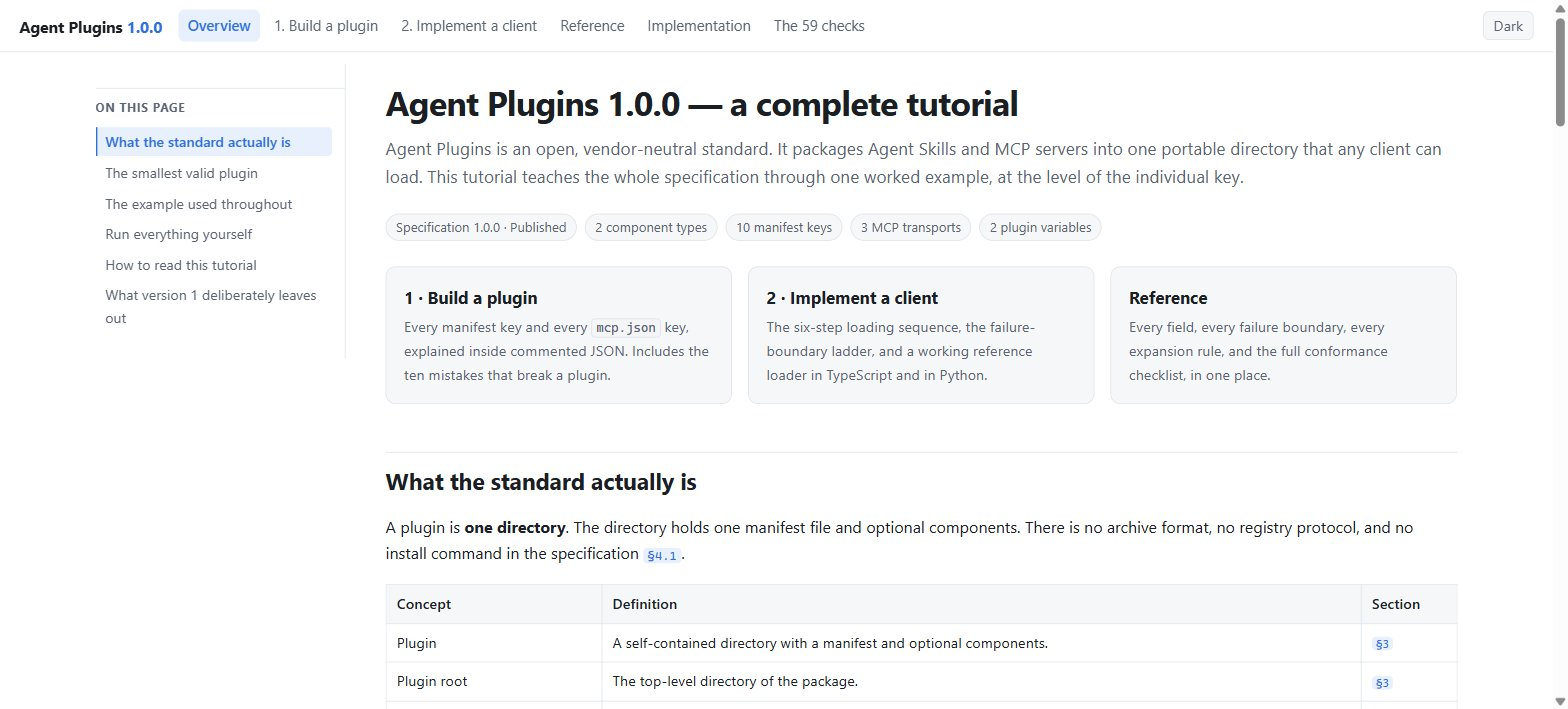
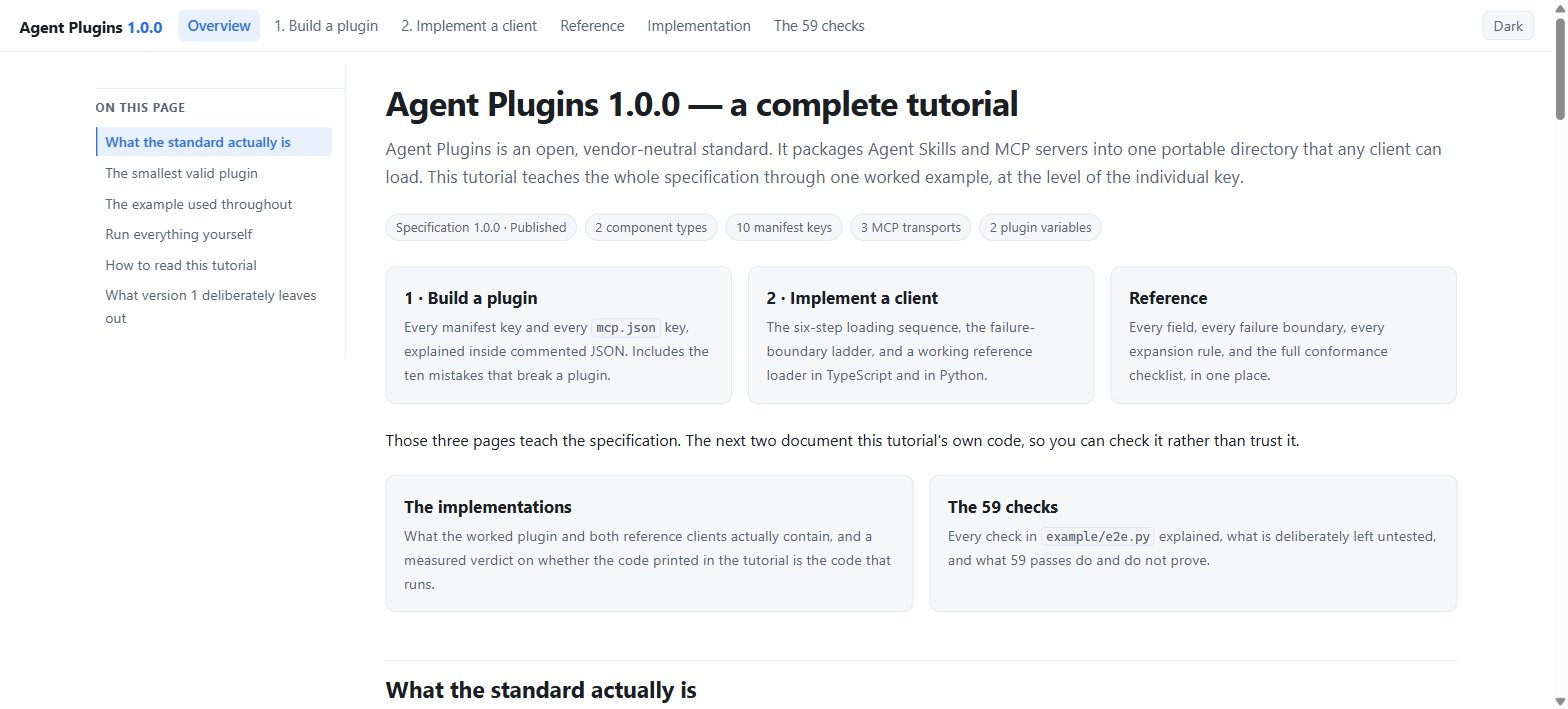
Link the two new pages from the index.html body
The nav already listed implementation.html and e2e-tests.html, but the
landing page's card grid and its "How to read this tutorial" table still
named only the three tutorial pages, so a reader scrolling the page never
met them.

Add a second .cards group rather than a fourth and fifth card: the grid is
repeat(auto-fit, minmax(250px, 1fr)), so five cards in one group wrap 4 + 1.
The split also states the distinction — three pages teach the spec, two
document this repository's own code.

Re-shoot index.jpg, which showed the old three-card grid.

Claude-Session: https://claude.ai/code/session_01WjJBM6mLEygkr3QV7NpvkF

diff --git a/index.html b/index.html
@@ -58,6 +58,22 @@ through one worked example, at the level of the individual key.</p>
   </a>
 </div>
 
+<p>Those three pages teach the specification. The next two document this tutorial's own code, so you
+can check it rather than trust it.</p>
+
+<div class="cards">
+  <a class="card" href="implementation.html">
+    <h3>The implementations</h3>
+    <p>What the worked plugin and both reference clients actually contain, and a measured verdict on
+    whether the code printed in the tutorial is the code that runs.</p>
+  </a>
+  <a class="card" href="e2e-tests.html">
+    <h3>The 59 checks</h3>
+    <p>Every check in <code>example/e2e.py</code> explained, what is deliberately left untested, and
+    what 59 passes do and do not prove.</p>
+  </a>
+</div>
+
 <h2 id="what">What the standard actually is</h2>
 
 <p>A plugin is <strong>one directory</strong>. The directory holds one manifest file and optional components.
@@ -200,6 +216,8 @@ rule of the specification in action <span class="sec">§7.2.2</span>.</p>
 <tr><td>Packaging skills or an MCP server for other people</td><td><a href="plugin-authors.html">Tutorial 1</a></td><td>Copy <code>example/changelog-tools/</code> and edit it.</td></tr>
 <tr><td>Building an agent, an IDE, or a CLI that loads plugins</td><td><a href="client-implementers.html">Tutorial 2</a></td><td>Port <code>example/client/loader.ts</code>.</td></tr>
 <tr><td>Checking one rule quickly</td><td><a href="reference.html">Reference</a></td><td>Use the field tables and the failure matrix.</td></tr>
+<tr><td>Wondering whether the example code is real</td><td><a href="implementation.html">The implementations</a></td><td>Read the fidelity verdict, then open the files in <code>example/</code>.</td></tr>
+<tr><td>Wondering what the tests actually prove</td><td><a href="e2e-tests.html">The 59 checks</a></td><td>Run <code>python example/e2e.py</code> yourself.</td></tr>
 </tbody>
 </table>
 </div>

diff --git a/HANDOFF.md b/HANDOFF.md
@@ -15,6 +15,11 @@ run 31134457291.
 
 Done and verified:
 
+- **`index.html` links every other page twice**: from the nav, and from the body — three cards for
+  the tutorial pages, then a second `.cards` group for `implementation.html` and `e2e-tests.html`,
+  plus a row each in the "How to read this tutorial" table. Keep the two card groups separate.
+  The grid is `repeat(auto-fit, minmax(250px, 1fr))` (`assets/style.css:374`), so a single group of
+  5 cards wraps 4 + 1 and looks broken.
 - **6 HTML pages.** 4 tutorial pages, self-contained, no CDN: `index.html`, `plugin-authors.html`,
   `client-implementers.html`, `reference.html` — plus `implementation.html` (what the code
   contains, and a measured verdict on tutorial-versus-code fidelity: 149 of 165 TypeScript lines are
@@ -51,12 +56,16 @@ Done and verified:
   and `assets/tutorial.js`. All 14 returned 200 as of the last verified deploy. The 2 newest JPEGs,
   `implementation.jpg` and `e2e-tests.jpg`, only serve once their commit is pushed and deployed —
   re-run the loop below after any push. Every destination behind the README screenshot grid is one
-  of the 6 page URLs. The served `index.html` is 11987 bytes, which equals
-  `git cat-file -s HEAD:index.html`, and it links `implementation.html` and `e2e-tests.html`.
-  That byte match is how you confirm the newest content is live and not a cached older deploy.
-  A Windows working copy shows 12234 bytes for the same file, because the checkout uses CRLF
-  and the 247 extra bytes are the 247 carriage returns. Compare the git blob size, not the file
-  on disk.
+  of the 6 page URLs. To confirm the newest content is live and not a cached older deploy, compare
+  the served byte count with the git blob, which must be equal:
+
+  ```bash
+  echo "served=$(curl -sL https://az9713.github.io/agent-plugins-spec-tutorial/ | wc -c) \
+        blob=$(git cat-file -s HEAD:index.html)"
+  ```
+
+  Do **not** compare against the file on disk. A Windows checkout uses CRLF, so `wc -c index.html`
+  reports one extra byte per line — 247 more than the blob, at 247 lines. Compare the git blob size.
 - **`example/e2e.py` — the end-to-end demonstration. 59 checks, exit code 0.** Landed in `fe3acce`.
   Run it with `python example/e2e.py` (add `--quiet` to hide the MCP transcript). Part A loads the
   plugin with the reference client, launches `bin/notes_server.py` from the client's own launch
